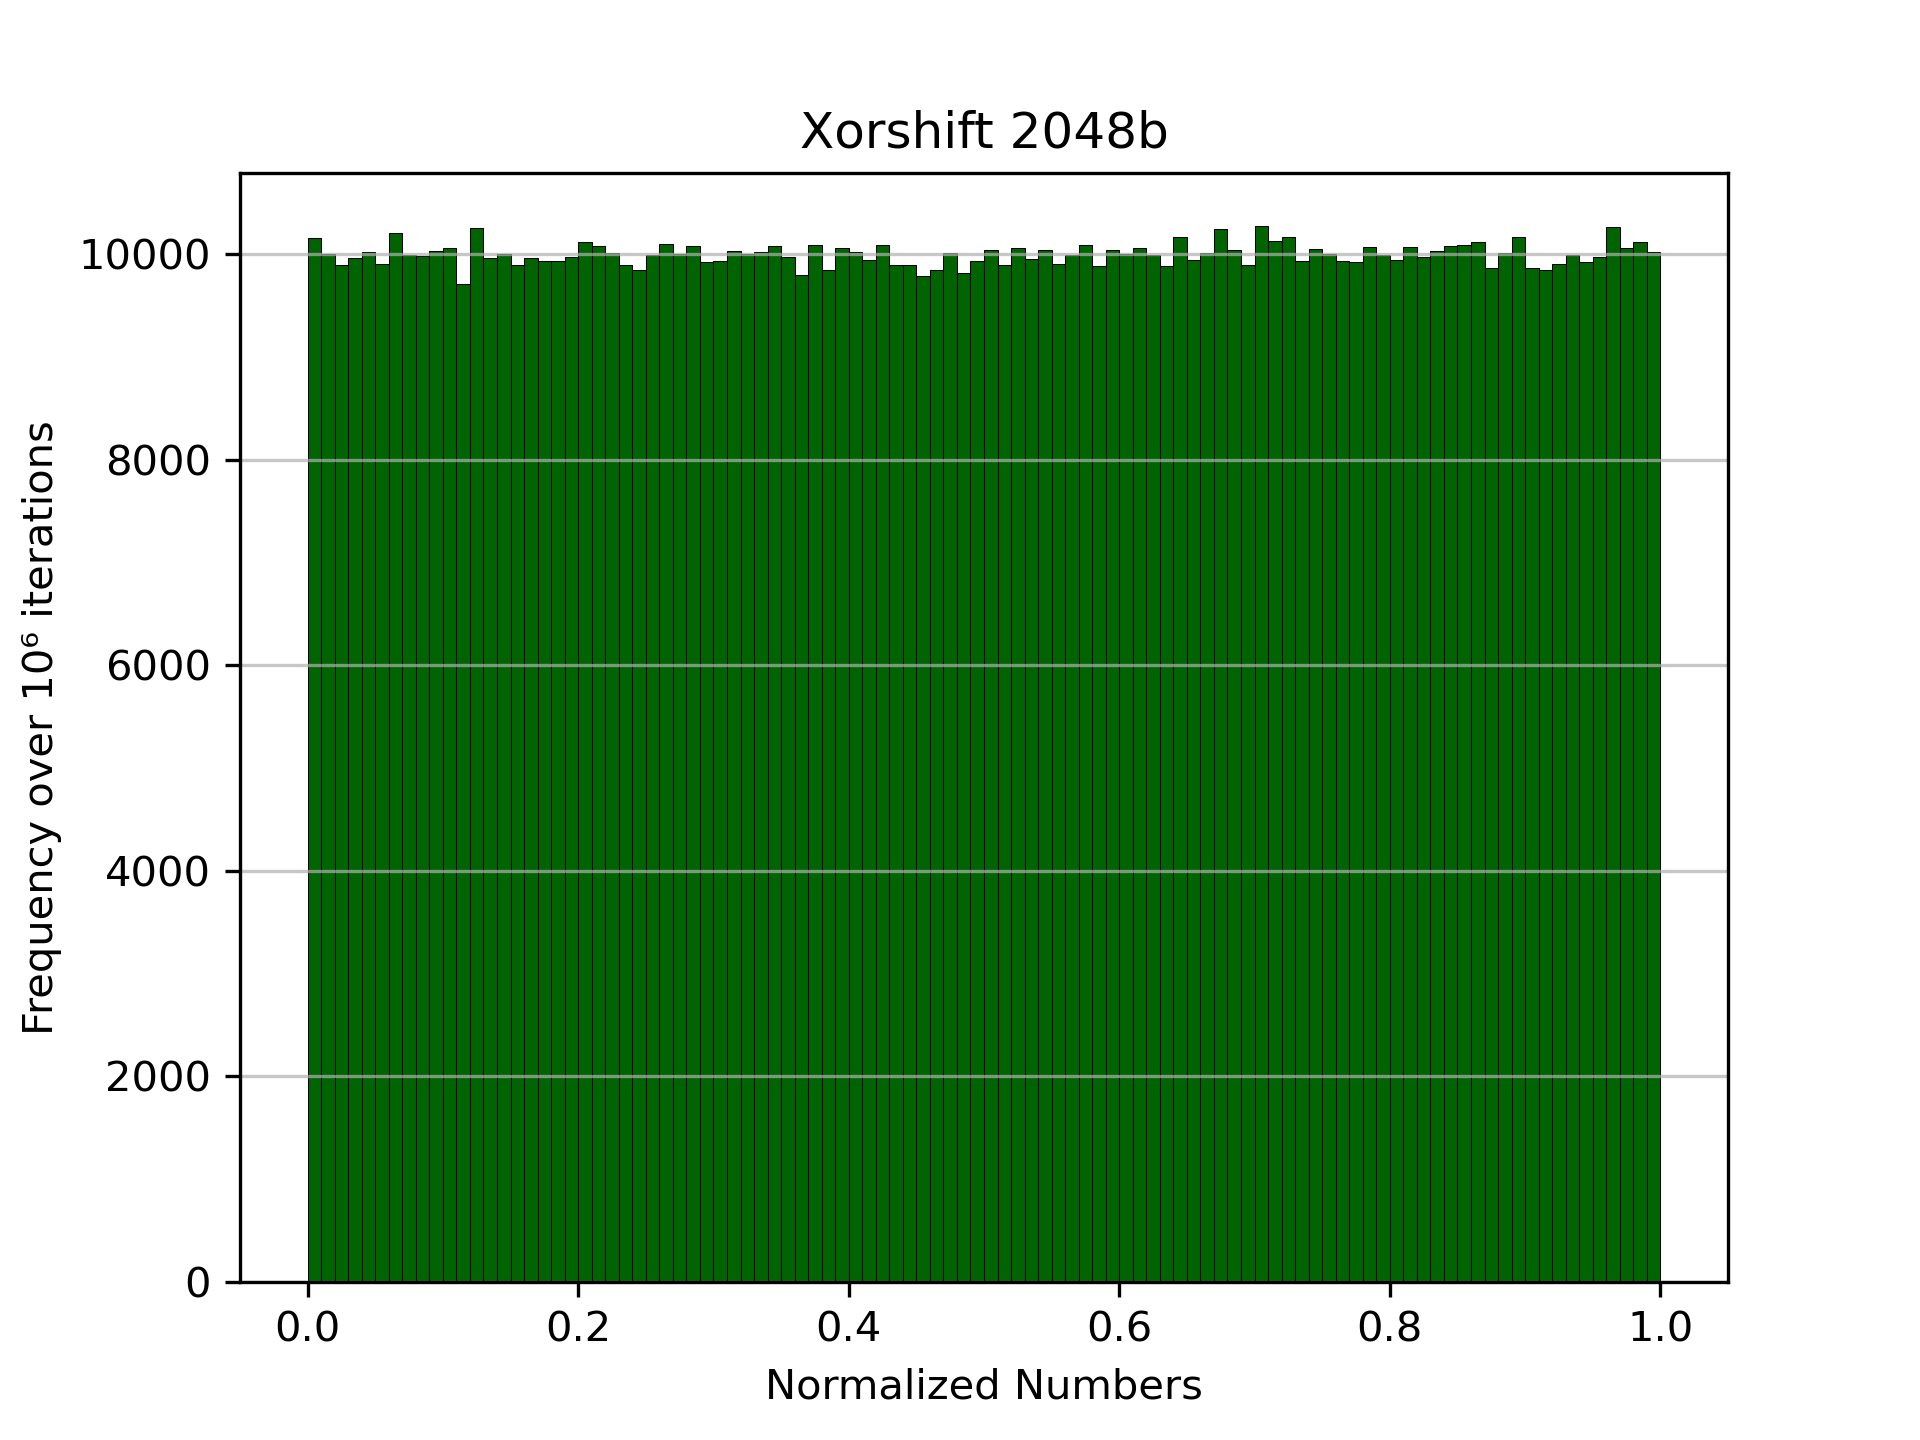
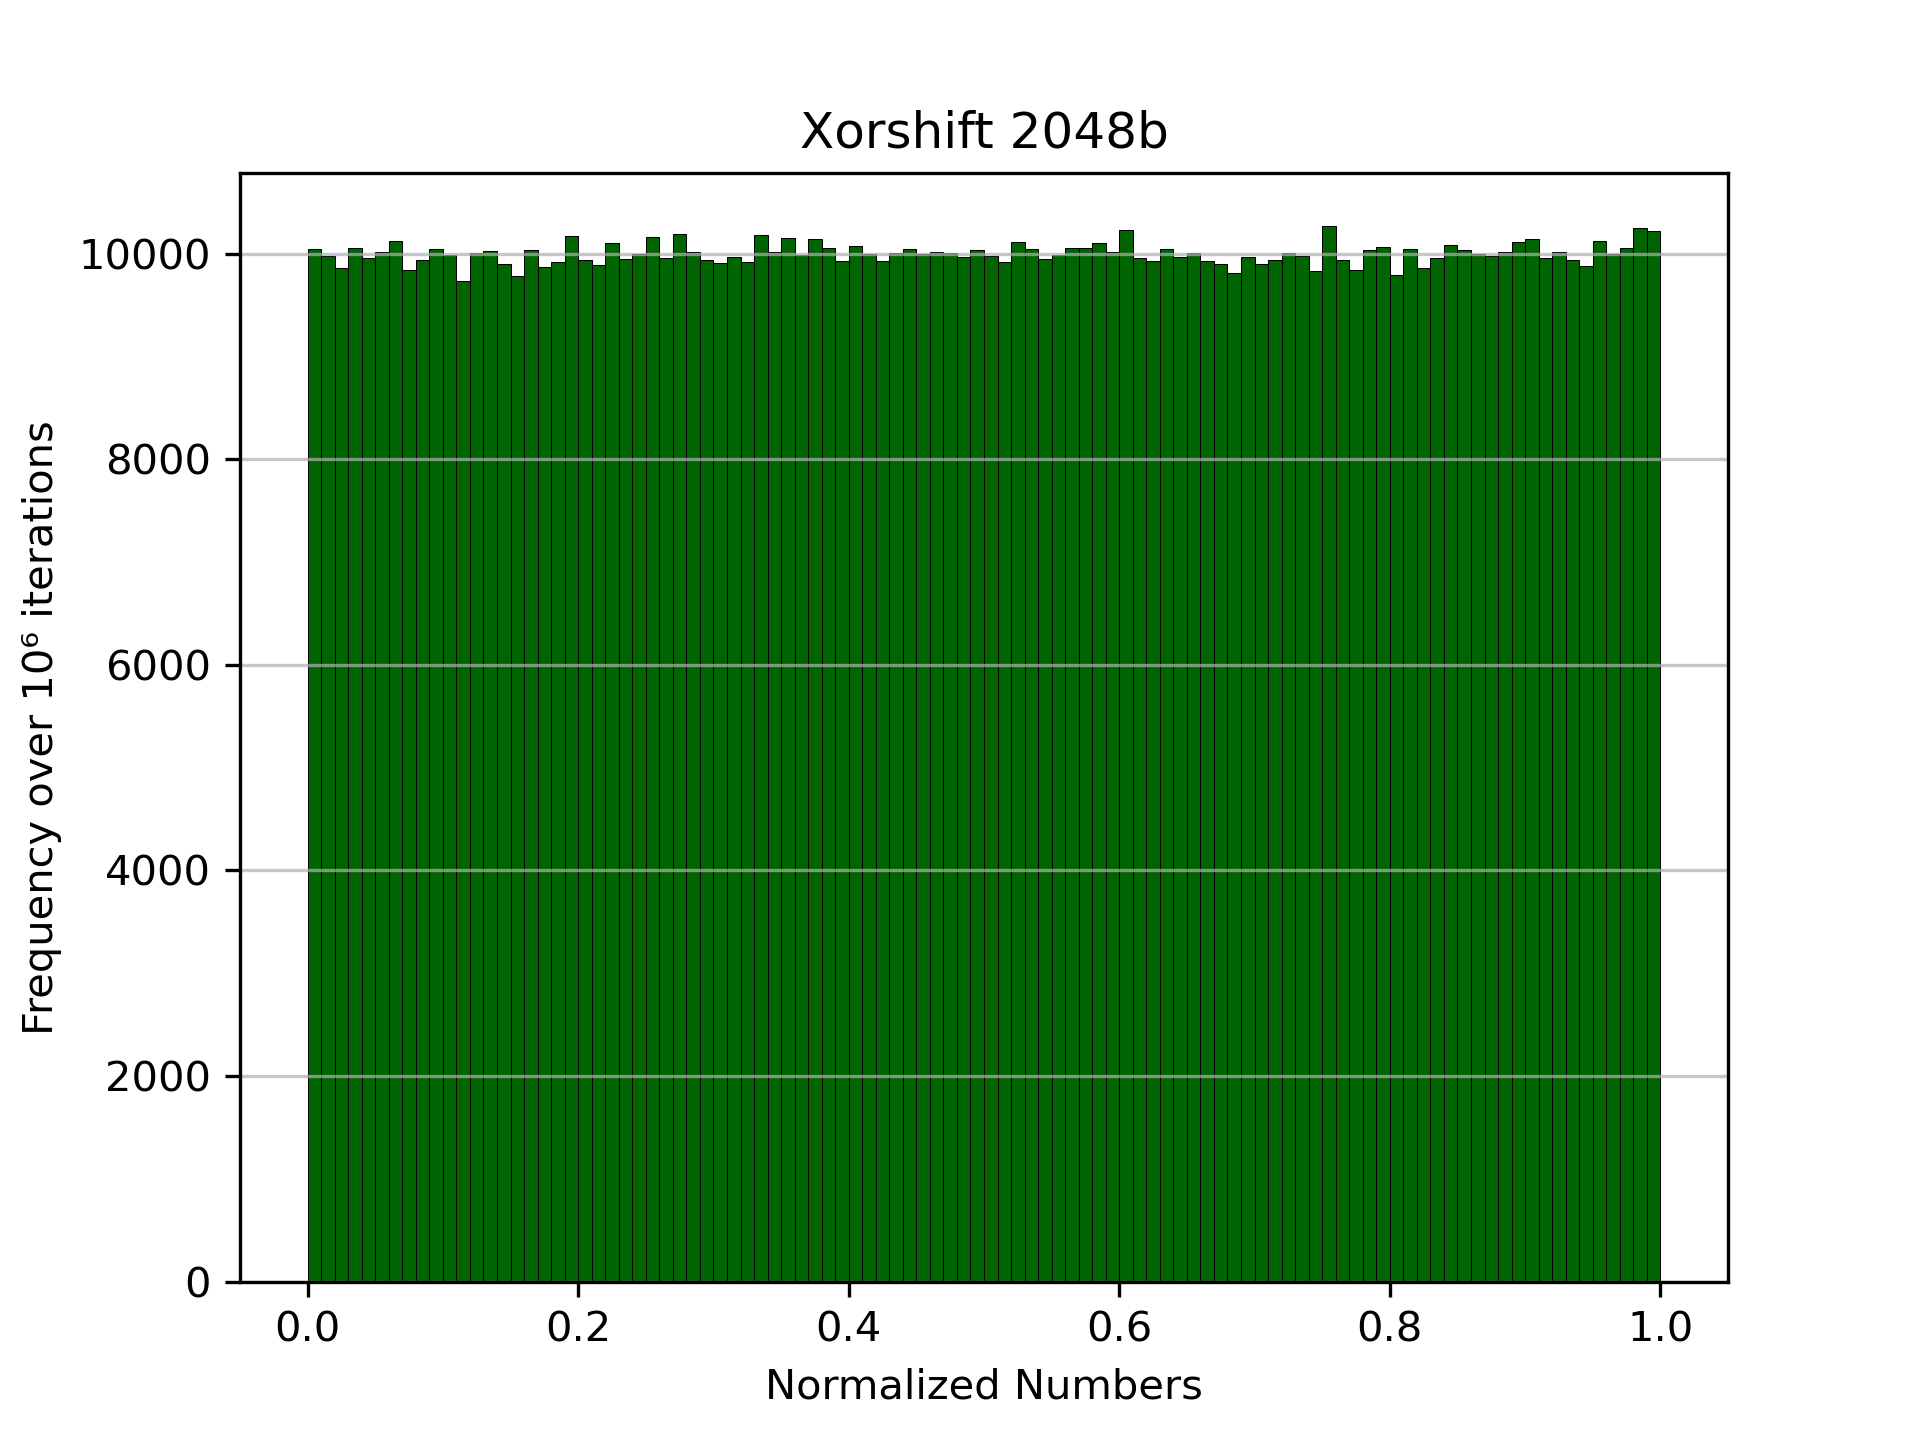
plot e revisao

Changed region(s): [[0.1562, 0.1562, 0.875, 0.1875], [0.0625, 0.5938, 0.0938, 0.625], [0.0625, 0.3125, 0.0938, 0.3438]]

diff --git a/teste_primalidade.py b/teste_primalidade.py
@@ -30,6 +30,23 @@ def randbits(bits: int, algo: str = "lcg", last_value: int = 21) -> tuple[int, i
     else:
         raise ValueError("Algoritmo não suportado. Use 'lcg' ou 'xorshift'.")
 
+def randrange_custom(low: int, high: int, algo: str, last_value: int) -> tuple[int, int]:
+    """
+    Mimics random.randint(low, high) using the custom randbits function.
+    Returns (number, new_last_value).
+    """
+    if low > high:
+        raise ValueError("low must be <= high")
+
+    # Range size
+    rng = high - low + 1
+
+    # Generate enough bits to cover the range
+    bits = rng.bit_length()
+    while True:
+        val, last_value = randbits(bits, algo, last_value)
+        if val < rng:  # accept only if within range
+            return low + val, last_value
 
 def normalize_candidate(n: int, bits: int) -> int:
     """Garante que n tenha exatamente 'bits' bits, MSB=1 e LSB=1."""
@@ -37,47 +54,73 @@ def normalize_candidate(n: int, bits: int) -> int:
     n |= 1                  # força ser ímpar
     return n & ((1 << bits) - 1)
 
+def power(a: int, n: int, p: int) -> int:
+    """Iterative modular exponentiation: (a^n) % p."""
+    res = 1
+    a = a % p
+
+    while n > 0:
+        if n % 2:  # if n is odd
+            res = (res * a) % p
+            n -= 1
+        else:
+            a = (a * a) % p
+            n //= 2
+
+    return res % p
 
 # ======================================================
 # Testes de primalidade
 # ======================================================
-def miller_rabin(n: int, k: int, algo: str, last_value: int) -> tuple[bool, int]:
-    """Teste de Miller-Rabin usando PRNG para gerar bases."""
-    if n < 2:
-        return False, last_value
-    for p in [2, 3, 5, 7, 11, 13, 17, 19, 23, 29]:
-        if n == p:
-            return True, last_value
-        if n % p == 0:
-            return False, last_value
+def miller_test(d: int, n: int, algo: str, last_value: int) -> tuple[bool, int]:
+    """
+    One Miller-Rabin trial. Returns (probably_prime, new_last_value).
+    """
+    # Pick a random base in [2..n-2]
+    a, last_value = randrange_custom(2, n - 2, algo, last_value)
 
-    # escreve n-1 = 2^r * d
+    # Compute a^d % n
+    x = power(a, d, n)
+
+    if x == 1 or x == n - 1:
+        return True, last_value
+
+    # Keep squaring x until d reaches n-1
+    while d != n - 1:
+        x = (x * x) % n
+        d *= 2
+
+        if x == 1:
+            return False, last_value
+        if x == n - 1:
+            return True, last_value
+
+    return False, last_value
+
+def miller_rabin(n: int, k: int, algo: str, last_value: int) -> tuple[bool, int]:
+    """Miller-Rabin primality test with custom PRNG."""
+    # Corner cases
+    if n <= 1 or n == 4:
+        return False, last_value
+    if n <= 3:
+        return True, last_value
+
+    # Write n-1 as d*2^r with d odd
     d = n - 1
-    r = 0
     while d % 2 == 0:
         d //= 2
-        r += 1
 
+    # Run k trials
     for _ in range(k):
-        a, last_value = randbits(n.bit_length(), algo, last_value)
-        a = 2 + (a % (n - 3))
-        x = pow(a, d, n)
-        if x == 1 or x == n - 1:
-            continue
-        composite = True
-        for _ in range(r - 1):
-            x = pow(x, 2, n)
-            if x == n - 1:
-                composite = False
-                break
-        if composite:
+        ok, last_value = miller_test(d, n, algo, last_value)
+        if not ok:
             return False, last_value
+
     return True, last_value
 
-
 def fermat_test(n: int, k: int, algo: str, last_value: int) -> tuple[bool, int]:
-    """Teste de Fermat usando PRNG para escolher bases."""
-    if n < 2:
+    """Fermat primality test with custom PRNG for base selection."""
+    if n in (1, 4):
         return False, last_value
     if n in (2, 3):
         return True, last_value
@@ -85,19 +128,22 @@ def fermat_test(n: int, k: int, algo: str, last_value: int) -> tuple[bool, int]:
         return False, last_value
 
     for _ in range(k):
-        a, last_value = randbits(n.bit_length(), algo, last_value)
-        a = 2 + (a % (n - 3))
-        if pow(a, n - 1, n) != 1:
+        # Use custom randint replacement: [2, n-2]
+        a, last_value = randrange_custom(2, n - 2, algo, last_value)
+
+        # Fermat's Little Theorem check
+        if power(a, n - 1, n) != 1:
             return False, last_value
+
     return True, last_value
 
 
 # ======================================================
 # Geração de primos a partir do PRNG
 # ======================================================
-def generate_prime_miller_rabin(bits: int, algo: str = "lcg", k: int = 8) -> int:
+def generate_prime_miller_rabin(bits: int, algo: str = "lcg", seed: int = 21, k: int = 8) -> int:
     """Gera um número primo de 'bits' bits usando Miller-Rabin."""
-    last_value = bits
+    last_value = seed
     while True:
         candidate, last_value = randbits(bits, algo, last_value)
         candidate = normalize_candidate(candidate, bits)
@@ -109,9 +155,9 @@ def generate_prime_miller_rabin(bits: int, algo: str = "lcg", k: int = 8) -> int
             return candidate
 
 
-def generate_prime_fermat(bits: int, algo: str = "lcg", k: int = 8) -> int:
+def generate_prime_fermat(bits: int, algo: str = "lcg", seed: int = 21, k: int = 8) -> int:
     """Gera um número primo de 'bits' bits usando Fermat."""
-    last_value = bits
+    last_value = seed
     while True:
         candidate, last_value = randbits(bits, algo, last_value)
         candidate = normalize_candidate(candidate, bits)

diff --git a/item3.py b/item3.py
@@ -5,6 +5,7 @@ from teste_primalidade import generate_prime_fermat, generate_prime_miller_rabin
 
 def item3():
     NUM_SIZES = [40, 56, 80, 128, 168, 224, 256, 512, 1024, 2048, 4096]
+    INITIAL_SEED = 2**27
 
     with open("results/primes.csv", "w", newline="") as csvfile:
         writer = csv.writer(csvfile)
@@ -14,7 +15,7 @@ def item3():
         for idx, bits in enumerate(NUM_SIZES, start=1):
             # Miller-Rabin
             start = time.perf_counter_ns()
-            p1 = generate_prime_miller_rabin(bits, "lcg", k=5)
+            p1 = generate_prime_miller_rabin(bits, "lcg", seed=INITIAL_SEED, k=5)
             end = time.perf_counter_ns()
             t1 = end - start
             print(f"[LCG] Miller-Rabin {bits}-bit prime in {t1/1e9:.3f}s")
@@ -22,7 +23,7 @@ def item3():
 
             # Fermat
             start = time.perf_counter_ns()
-            p2 = generate_prime_fermat(bits, "lcg", k=5)
+            p2 = generate_prime_fermat(bits, "lcg", seed=INITIAL_SEED, k=5)
             end = time.perf_counter_ns()
             t2 = end - start
             print(f"[LCG] Fermat       {bits}-bit prime in {t2/1e9:.3f}s")
@@ -32,7 +33,7 @@ def item3():
         for idx, bits in enumerate(NUM_SIZES, start=1 + 2*len(NUM_SIZES)):
             # Miller-Rabin
             start = time.perf_counter_ns()
-            p1 = generate_prime_miller_rabin(bits, "xorshift", k=5)
+            p1 = generate_prime_miller_rabin(bits, "xorshift", seed=INITIAL_SEED, k=5)
             end = time.perf_counter_ns()
             t1 = end - start
             print(f"[Xorshift] Miller-Rabin {bits}-bit prime in {t1/1e9:.3f}s")
@@ -40,7 +41,7 @@ def item3():
 
             # Fermat
             start = time.perf_counter_ns()
-            p2 = generate_prime_fermat(bits, "xorshift", k=5)
+            p2 = generate_prime_fermat(bits, "xorshift", seed=INITIAL_SEED, k=5)
             end = time.perf_counter_ns()
             t2 = end - start
             print(f"[Xorshift] Fermat       {bits}-bit prime in {t2/1e9:.3f}s")

diff --git a/item2.py b/item2.py
@@ -81,12 +81,12 @@ def item2():
     NUM_SIZES = [40, 56, 80, 128, 168, 224, 256, 512, 1024, 2048, 4096]
     NUM_ITERATIONS = 1_000_000
 
-    LCG_SEED = 2^27
+    LCG_SEED = 2**27
     LCG_A = 33690453
     LCG_C = 1013904223
     test_lcg(NUM_SIZES, LCG_SEED, NUM_ITERATIONS, LCG_A, LCG_C)
 
-    XORSHIFT_SEED = 21
+    XORSHIFT_SEED = 2**27
     test_xorshift(NUM_SIZES, XORSHIFT_SEED, NUM_ITERATIONS)
 
     

diff --git a/main.py b/main.py
@@ -3,5 +3,8 @@ from item3 import item3
 
 if __name__ == "__main__":
 
-    item2()
-    # item3()
+    choice = input("Run item 2 or item 3? (2/3): ").strip()
+    if choice == '2':
+        item2()
+    elif choice == '3':
+        item3()
